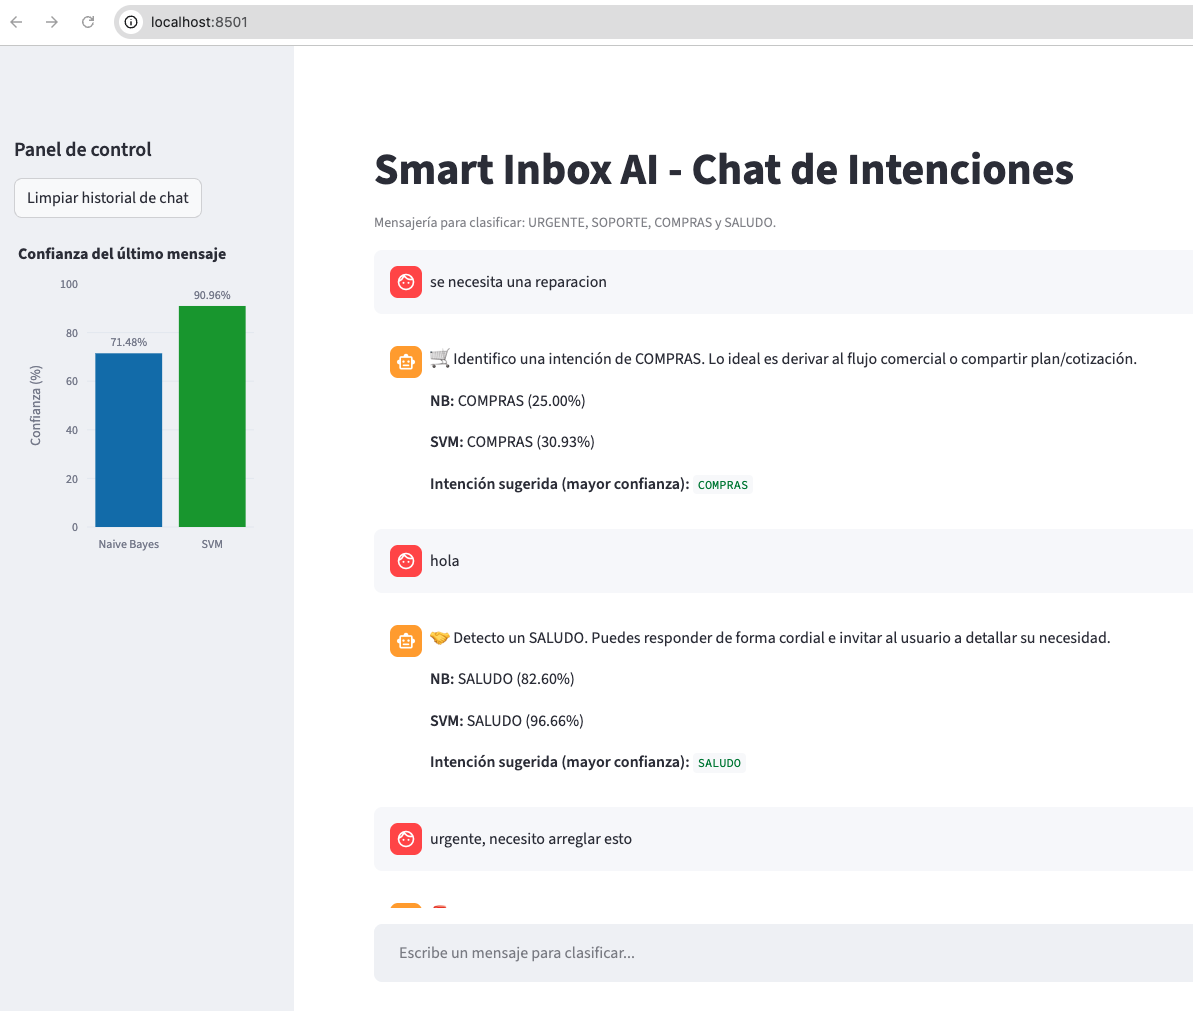
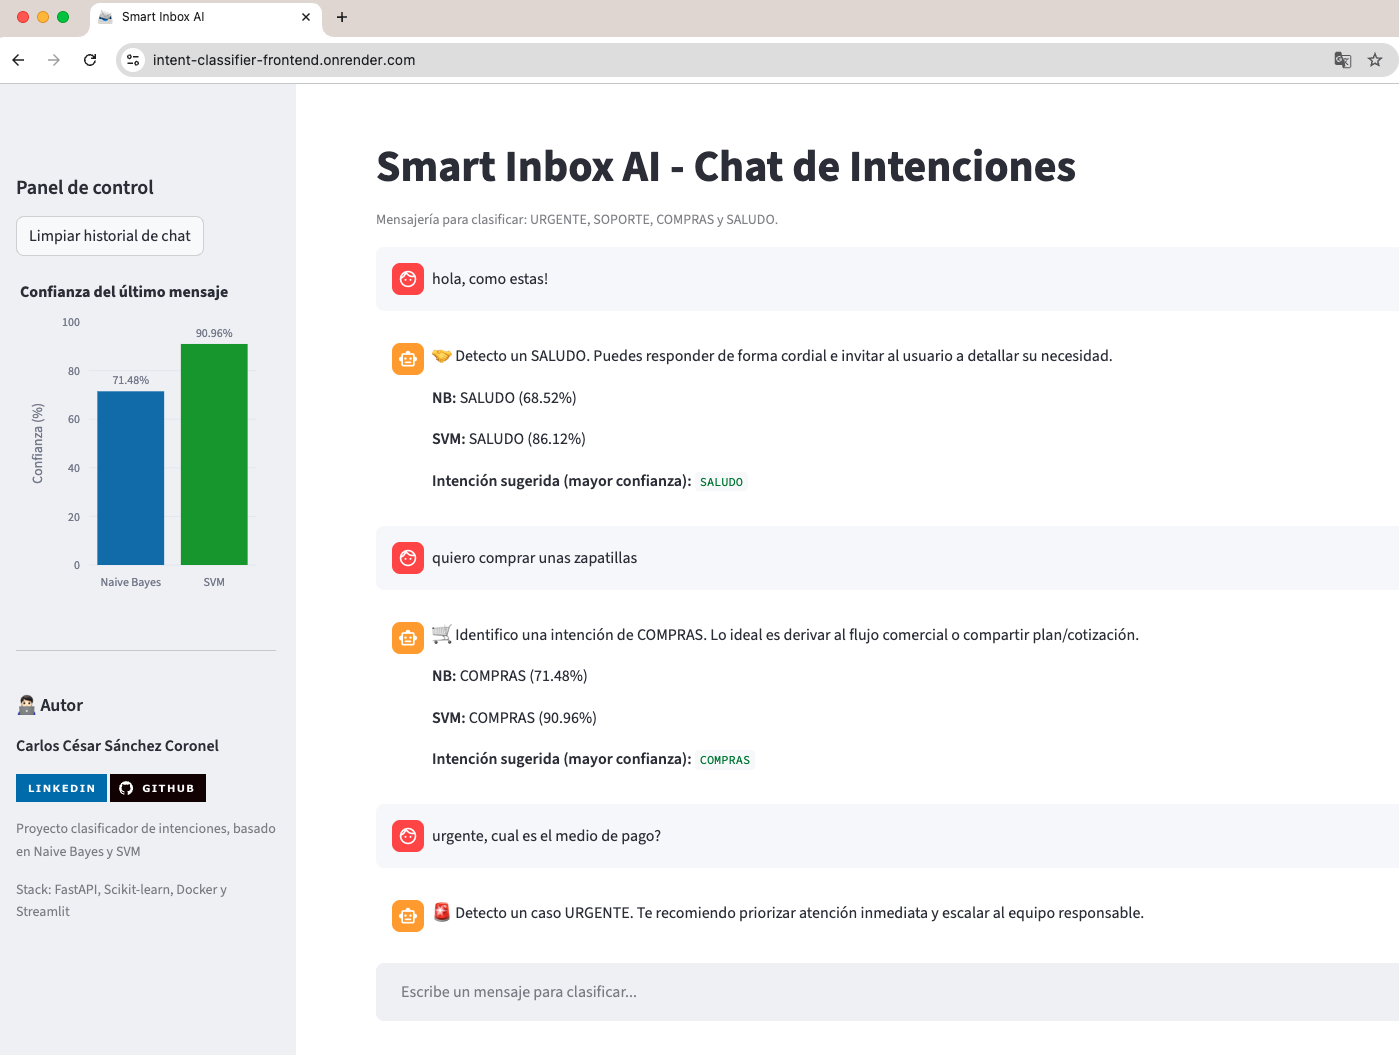
explicacion del proyecto de ML

diff --git a/README.md b/README.md
@@ -13,13 +13,32 @@ Incluye:
 
 ## Demo
 
+## 🚀 Demo en Vivo
+
+Puedes probar la aplicación interactiva directamente en el link aquí:
+
 <p align="center">
-  <img src="assets/demo.png" alt="Demo de Smart Inbox AI clasificando intenciones en tiempo real" width="900" />
+  <a href="https://intent-classifier-frontend.onrender.com/" target="_blank">
+    <img src="https://static.streamlit.io/badges/streamlit_badge_black_white.svg" alt="Abrir en Streamlit">
+  </a>
+</p>
+
+> **Nota técnica:** Debido al uso de la capa gratuita en Render, la aplicación puede tardar aproximadamente **50 segundos en "despertar"** si no ha recibido visitas recientes. ¡Agradezco tu paciencia!
+
+---
+
+## 📸 Vista de la Interfaz
+
+<p align="center">
+  <img src="assets/demo.png" alt="Dashboard de Smart Inbox AI" width="900" style="border-radius: 10px; border: 1px solid #ddd;" />
 </p>
 
 <p align="center">
-  Interfaz principal del clasificador mostrando predicciones de intención y nivel de confianza por modelo.
+  <i>Interfaz principal del clasificador mostrando el análisis de intención, haciendo comparativo entre los modelos Naive Bayes y SVM.</i>
 </p>
+
+
+
 
 ## Estructura del proyecto
 
